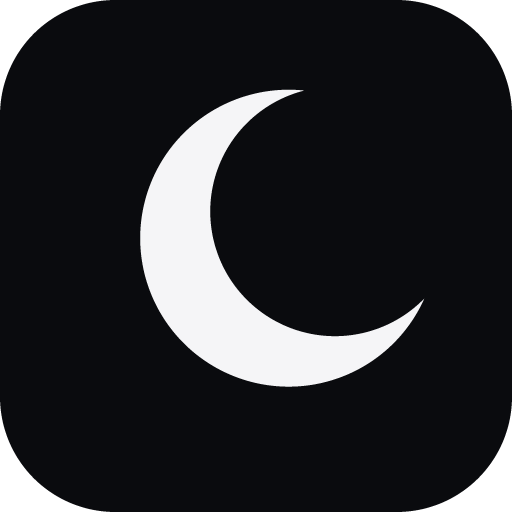
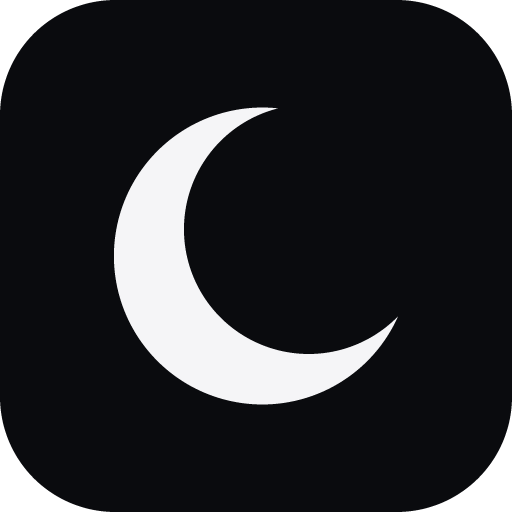
mark: the crescent's ink sits at the centre of its box
The disc moves to (62.15, 60) and the shade to (77.738, 51), so the ink's
bounding box is centred on (60, 60) in all five places and every icon.

Changed region(s): [[0.2188, 0.25, 0.6875, 0.8125], [0.3438, 0.25, 0.8438, 0.7188], [0.375, 0.1562, 0.5938, 0.25]]

diff --git a/scripts/test-mark.js b/scripts/test-mark.js
@@ -34,7 +34,7 @@ const ok = (cond, what, detail) => {
 };
 
 const gen = require('./generate-icon');
-const PATH = 'M76.294,4.281 A50,50 0 1,0 116.705,74.274 A42,42 0 1,1 76.294,4.281 Z';
+const PATH = 'M67.444,10.281 A50,50 0 1,0 107.855,80.274 A42,42 0 1,1 67.444,10.281 Z';
 const r3 = (n) => Math.round(n * 1000) / 1000;
 
 // The readers, on known strings first: a reader that finds nothing would pass
@@ -46,14 +46,14 @@ ok(pathsIn('<svg><path fill="x" d="M1,2 Z"/><path d="M3,4 Z" /></svg>').join('|'
   && svgTag('<svg class="mark" viewBox="0 0 120 120"><path/></svg>', 'mark') === '<svg class="mark" viewBox="0 0 120 120">',
 'the path and svg readers find what they look for');
 ok(OLD_MARK.test('<circle class="pupil" cx="32"/>') && OLD_MARK.test('stroke-dasharray="130.690 20.106"')
-  && !OLD_MARK.test('<path d="M76.294,4.281 Z" fill="currentColor"/>'),
+  && !OLD_MARK.test('<path d="M67.444,10.281 Z" fill="currentColor"/>'),
 'the old mark detector finds the ring and the pupil, and passes over the crescent');
 
 // 1. The arithmetic: the two circles, and the path they make.
-ok(gen.OUTER.x === 71 && gen.OUTER.y === 54 && gen.OUTER.r === 50
-  && r3(gen.INNER.x) === 86.588 && r3(gen.INNER.y) === 45 && gen.INNER.r === 42,
-'generate-icon.js draws the disc r50 at (71, 54) less the shade r42 at (86.588, 45)', JSON.stringify([gen.OUTER, gen.INNER]));
-ok(gen.inCrescent(25, 60) && gen.inCrescent(60, 100) && !gen.inCrescent(86.588, 45) && !gen.inCrescent(5, 5) && !gen.inCrescent(118, 10),
+ok(gen.OUTER.x === 62.15 && gen.OUTER.y === 60 && gen.OUTER.r === 50
+  && r3(gen.INNER.x) === 77.738 && r3(gen.INNER.y) === 51 && gen.INNER.r === 42,
+'generate-icon.js draws the disc r50 at (62.15, 60) less the shade r42 at (77.738, 51)', JSON.stringify([gen.OUTER, gen.INNER]));
+ok(gen.inCrescent(16, 66) && gen.inCrescent(51, 106) && !gen.inCrescent(77.738, 51) && !gen.inCrescent(5, 5) && !gen.inCrescent(118, 10) && !gen.inCrescent(110, 60),
   'inside the crescent is the back of the moon, never the shade or past the disc');
 ok(gen.tilePath(100 / 120) === PATH, 'and the path it computes for the 120 box is the mark\'s path', gen.tilePath(100 / 120));
 
@@ -106,7 +106,7 @@ ok(num(disc, 'cx') === gen.OUTER.x && num(disc, 'cy') === gen.OUTER.y && num(dis
   && num(shade, 'cx') === r3(gen.INNER.x) && num(shade, 'cy') === r3(gen.INNER.y) && num(shade, 'r') === gen.INNER.r,
 'the splash\'s disc and shade are the same two circles', `${disc} ${shade}`);
 const splashCss = read('src/renderer/splash/splash.css');
-ok(/to\s*\{\s*cx: 86\.588px; cy: 45px; r: 42px; \}/.test(splashCss) && !OLD_MARK.test(code(splashCss)) && !/shockwave|infinite/.test(code(splashCss)),
+ok(/to\s*\{\s*cx: 77\.738px; cy: 51px; r: 42px; \}/.test(splashCss) && !OLD_MARK.test(code(splashCss)) && !/shockwave|infinite/.test(code(splashCss)),
   'its shade comes to rest in its own place, and no ring, pupil, shockwave or loop is left');
 ok(/class="wordmark">Occlara</.test(splash) && /\.wordmark \{[^}]*font-weight: 600;/.test(splashCss),
   'the name under it is "Occlara", Geist 600');

diff --git a/scripts/generate-icon.js b/scripts/generate-icon.js
@@ -20,9 +20,11 @@
  * changed mark is a changed number below and one run.
  *
  * THE DRAWING IS ARITHMETIC, the same two circles as assets/logo-mark.svg: on
- * the 120 unit grid, the disc of radius 50 at (71, 54) less the disc of radius
- * 42 at (86.588, 45). If that file changes, this must change with it (it is
- * one of the mark's five places, CLAUDE.md).
+ * the 120 unit grid, the disc of radius 50 at (62.15, 60) less the disc of
+ * radius 42 at (77.738, 51). The ink's bounding box, x 12.15 to 107.85 and y
+ * 10 to 110, has its centre at (60, 60), the centre of the box, so centring
+ * the 120 box in a tile centres the ink (8.7). If that file changes, this must
+ * change with it (it is one of the mark's five places, CLAUDE.md).
  *
  * EVERY PIXEL IS COVERED, NOT POINT SAMPLED. The aperture's generator asked
  * once per pixel whether its centre was inside the mark, so every edge was a
@@ -42,8 +44,8 @@ const fs = require('fs');
 const path = require('path');
 
 // ─── The crescent (120 unit grid) and the tile ──────────────────────────────
-const OUTER = { x: 71, y: 54, r: 50 };
-const INNER = { x: 71 + 18 * Math.cos(Math.PI / 6), y: 54 - 18 * Math.sin(Math.PI / 6), r: 42 };   // (86.588, 45)
+const OUTER = { x: 62.15, y: 60, r: 50 };
+const INNER = { x: OUTER.x + 18 * Math.cos(Math.PI / 6), y: OUTER.y - 18 * Math.sin(Math.PI / 6), r: 42 };   // (77.738, 51)
 const GROUND = [0x0A, 0x0B, 0x0E];   // --bg
 const INK = [0xF5, 0xF5, 0xF7];      // --text
 const TILE_RADIUS = 0.225;           // of the tile's side

diff --git a/src/renderer/splash/index.html b/src/renderer/splash/index.html
@@ -14,16 +14,16 @@
   <!-- The moon comes out of its shadow, then the name settles. The mark is
        drawn here as its two circles, the disc and the shade in a mask, so the
        shade can move; it is the same geometry as assets/logo-mark.svg (the
-       disc r50 at 71,54, the shade r42 at 86.588,45). Change both. -->
+       disc r50 at 62.15,60, the shade r42 at 77.738,51). Change both. -->
   <div class="stage">
     <svg class="mark" viewBox="0 0 120 120" width="96" height="96" role="img" aria-label="Occlara">
       <defs>
         <mask id="phase" maskUnits="userSpaceOnUse" x="0" y="0" width="120" height="120">
           <rect width="120" height="120" fill="white"/>
-          <circle class="shade" cx="86.588" cy="45" r="42" fill="black"/>
+          <circle class="shade" cx="77.738" cy="51" r="42" fill="black"/>
         </mask>
       </defs>
-      <circle cx="71" cy="54" r="50" fill="currentColor" mask="url(#phase)"/>
+      <circle cx="62.15" cy="60" r="50" fill="currentColor" mask="url(#phase)"/>
     </svg>
     <div class="wordmark">Occlara</div>
   </div>

diff --git a/src/renderer/shell/index.html b/src/renderer/shell/index.html
@@ -87,7 +87,7 @@
                assets/logo-mark.svg, so change both. The live dot is the
                title's, drawn by shell.css, and it never moves. -->
           <svg class="sealed-mark" viewBox="0 0 120 120" width="88" height="88" fill="none" role="img" aria-label="Occlara">
-            <path d="M76.294,4.281 A50,50 0 1,0 116.705,74.274 A42,42 0 1,1 76.294,4.281 Z" fill="currentColor"/>
+            <path d="M67.444,10.281 A50,50 0 1,0 107.855,80.274 A42,42 0 1,1 67.444,10.281 Z" fill="currentColor"/>
           </svg>
           <h1 id="sealed-title">Recording</h1>
           <p id="sealed-sub" class="sealed-sub">Occlara shows nothing until the match ends. The review opens here the moment it does.</p>

diff --git a/src/renderer/dock/index.html b/src/renderer/dock/index.html
@@ -17,7 +17,7 @@
   <div class="dock">
     <svg class="mark" width="26" height="26" viewBox="0 0 120 120" fill="none"
          xmlns="http://www.w3.org/2000/svg" role="img" aria-label="Occlara">
-      <path d="M76.294,4.281 A50,50 0 1,0 116.705,74.274 A42,42 0 1,1 76.294,4.281 Z" fill="currentColor"/>
+      <path d="M67.444,10.281 A50,50 0 1,0 107.855,80.274 A42,42 0 1,1 67.444,10.281 Z" fill="currentColor"/>
     </svg>
   </div>
   <script src="../shared/i18n-apply.js"></script>

diff --git a/src/renderer/splash/splash.css b/src/renderer/splash/splash.css
@@ -56,8 +56,8 @@ html, body {
    with no animation (reduced motion) the mark is simply whole. */
 .shade { animation: wax 1100ms 240ms var(--ease-expo) both; }
 @keyframes wax {
-  from { cx: 71px; cy: 54px; r: 52px; }
-  to   { cx: 86.588px; cy: 45px; r: 42px; }
+  from { cx: 62.15px; cy: 60px; r: 52px; }
+  to   { cx: 77.738px; cy: 51px; r: 42px; }
 }
 
 .wordmark {
